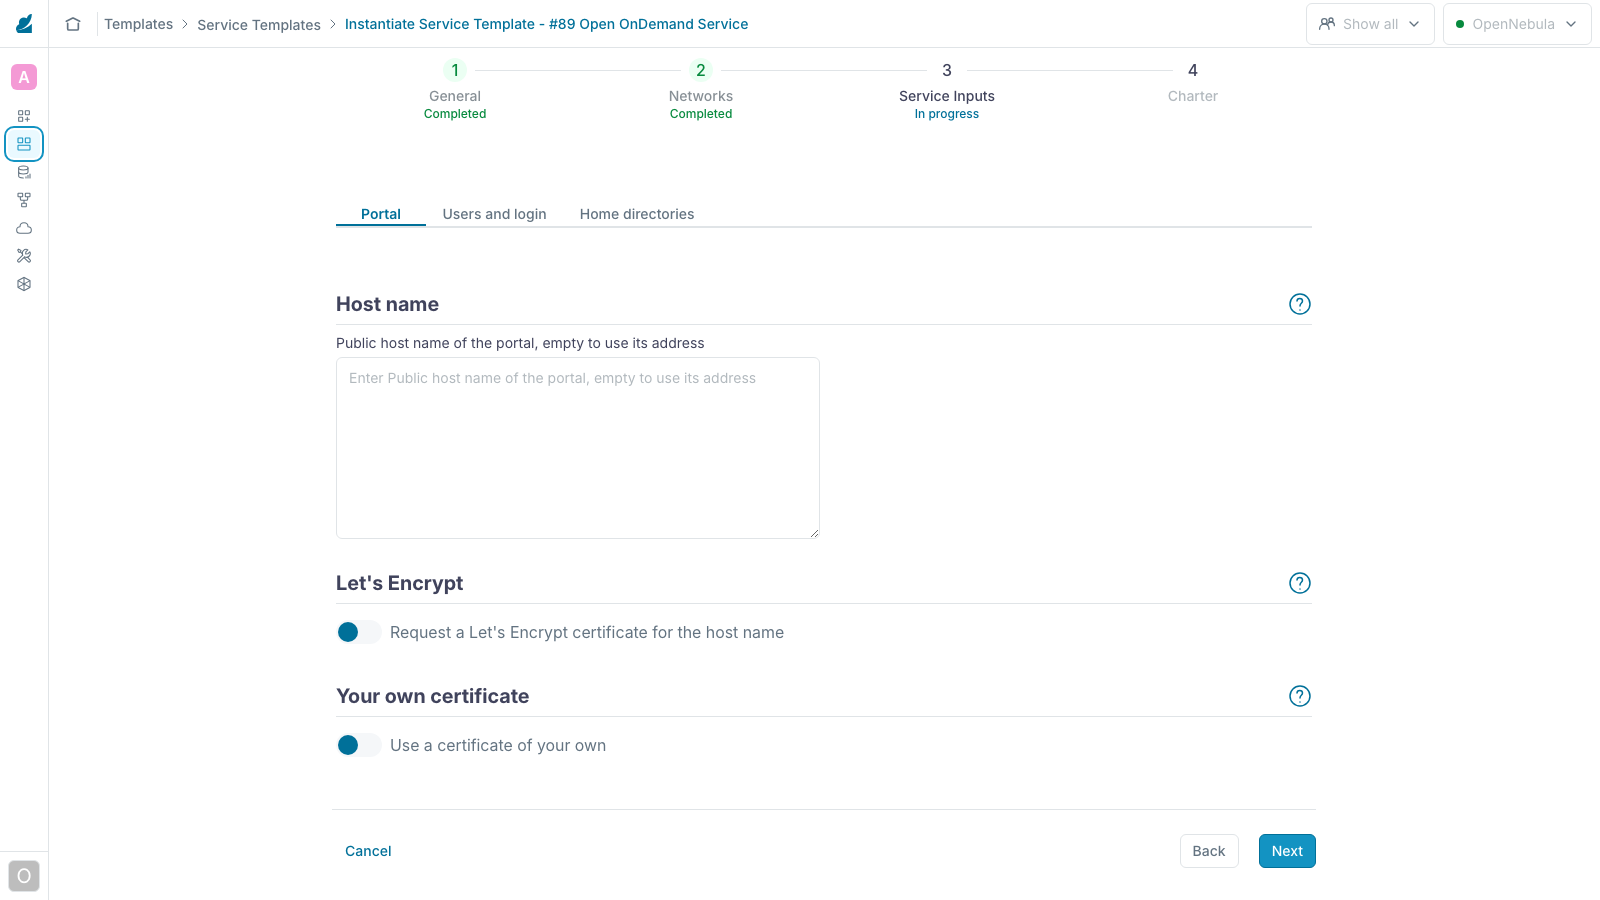
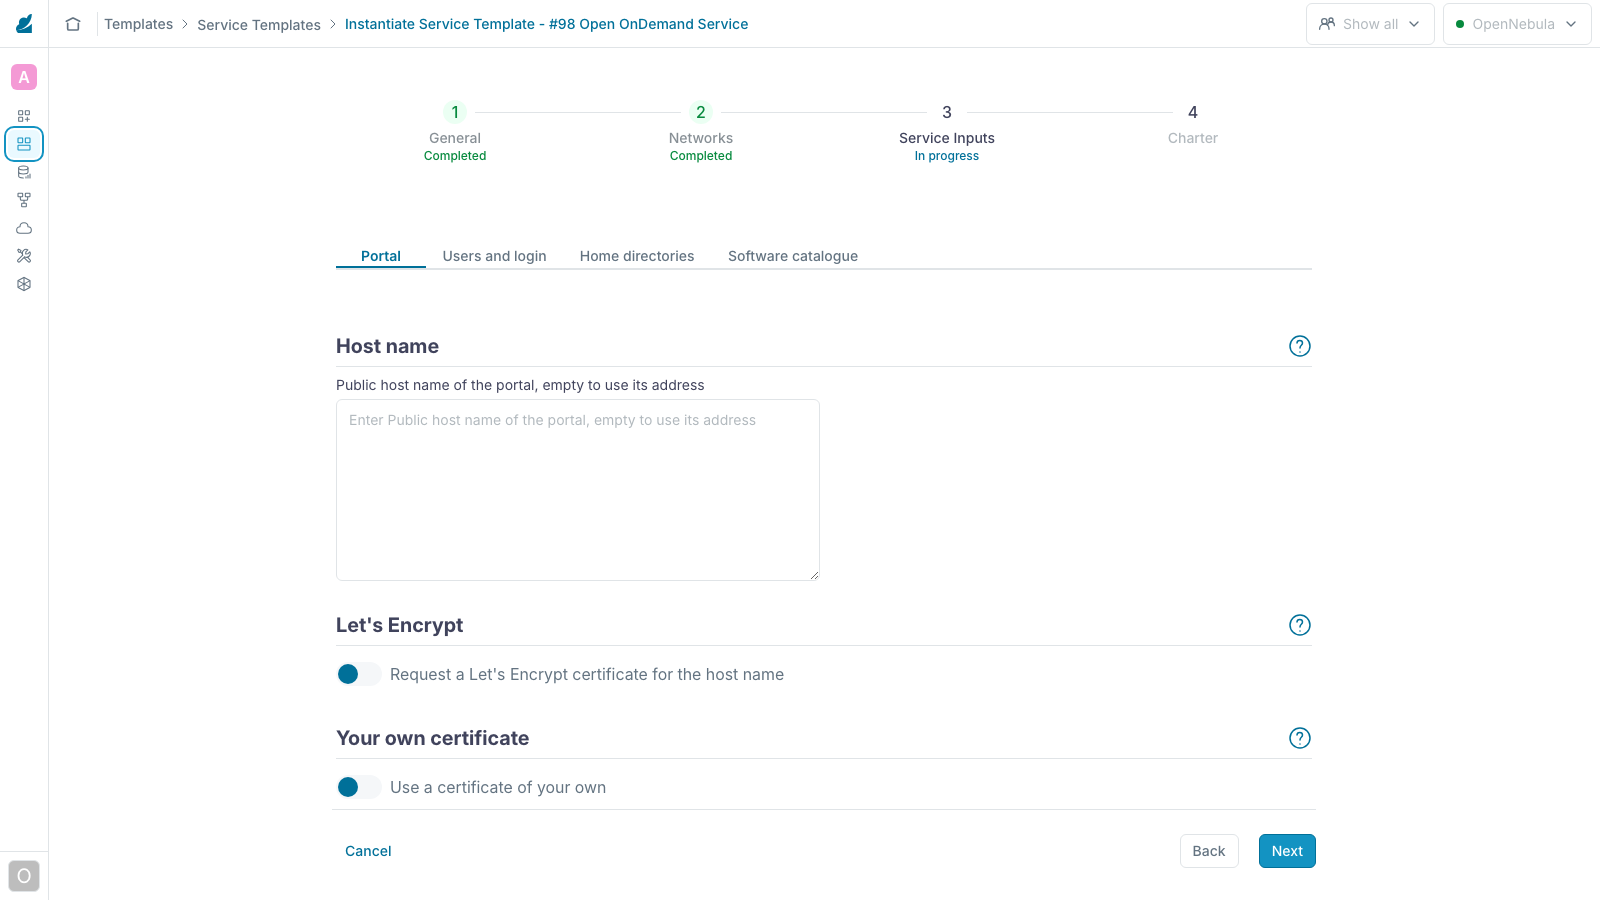
Open OnDemand: wizard screenshot with the Software catalogue tab

diff --git a/content/solutions/integration_blueprints/open_ondemand/quick_start.md b/content/solutions/integration_blueprints/open_ondemand/quick_start.md
@@ -98,7 +98,7 @@ In **Networks**, click each entry on the left and select its Virtual Network in 
 {{< image path="/images/open_ondemand/light/sunstone_instantiate_networks.png"
 alt="Instantiate wizard, Networks step" align="center" width="90%" mb="20px" >}}
 
-In **Service Inputs**, nothing needs to change for a first start. Every input is optional. The defaults give a portal with a self-signed certificate on its management address, and one local user, `demo1` with password `demo1pass`. The home directories stay on the storage role, and the Slurm cluster of the service needs no input. The inputs sit in three tabs, one per topic. Each section has a help icon with its explanation. Every optional feature is a switch that shows its fields only when it is on. The **Portal** tab looks like this.
+In **Service Inputs**, nothing needs to change for a first start. Every input is optional. The defaults give a portal with a self-signed certificate on its management address, and one local user, `demo1` with password `demo1pass`. The home directories and the software cache stay on the storage role, and the Slurm cluster of the service needs no input. The inputs sit in four tabs, one per topic. Each section has a help icon with its explanation. Every optional feature is a switch that shows its fields only when it is on. The **Portal** tab looks like this.
 
 {{< image path="/images/open_ondemand/light/sunstone_instantiate_inputs.png"
 alt="Instantiate wizard, Service Inputs step, Portal tab" align="center" width="90%" mb="20px" >}}
